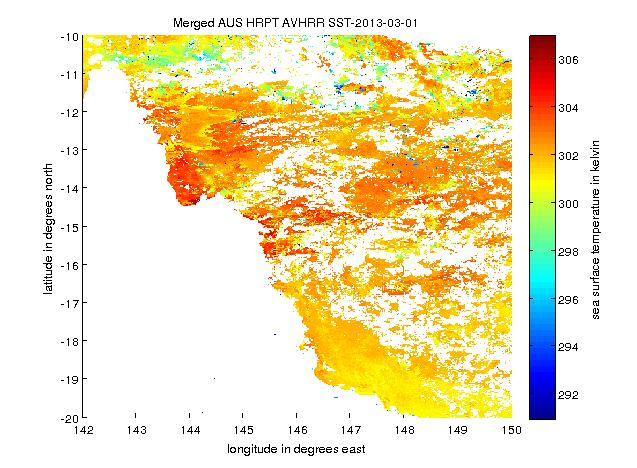
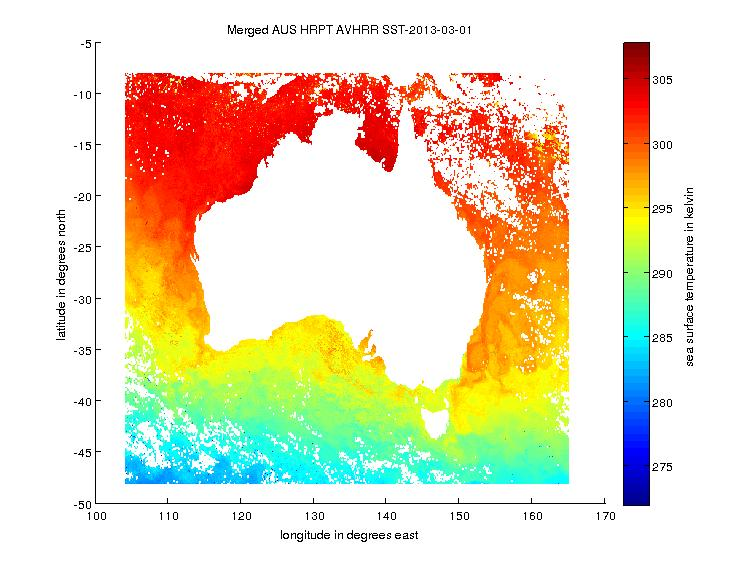
Remove GeoBoundary Box capability to subset gridded dataset . Back to previous version

diff --git a/MATLAB_R2011/commons/NetCDF/ncParse.m b/MATLAB_R2011/commons/NetCDF/ncParse.m
@@ -15,9 +15,6 @@ function dataset = ncParse (inputFileName,varargin)
 %     [parserOption]   'all'       => to retrieve the entire file
 %                      'metadata'  => to retrieve metadata only
 %
-%    'geoBoundaryBox', [minLon maxLon minLat maxLat] only work when a variable lat* or
-%    lon* are dimensions and not variables. regexpi on lat so the latitude
-%    can be either lat Lat LAT LATITUDE ...
 %
 %    'varList' , [varList]   => Parse only a specified set of variables
 %
@@ -78,13 +75,13 @@ if optargin > 0
         elseif strcmpi(varargin{ii_optargin} , 'varList')
             variablesChoosenByUser = varargin{ii_optargin+1};
             
-        elseif strcmpi(varargin{ii_optargin} , 'geoBoundaryBox')
-            geoBoundaryBox = varargin{ii_optargin+1};
-            
-            if (geoBoundaryBox(2) < geoBoundaryBox(1)) ||  (geoBoundaryBox(4) < geoBoundaryBox(3))
-                warning('geoBoundaryBox was badly written [minlon maxlon minlat maxlat]. Subsetting is cancelled ');
-                clear geoBoundaryBox
-            end
+%        elseif strcmpi(varargin{ii_optargin} , 'geoBoundaryBox')
+%            geoBoundaryBox = varargin{ii_optargin+1};
+%            
+%            if (geoBoundaryBox(2) < geoBoundaryBox(1)) ||  (geoBoundaryBox(4) < geoBoundaryBox(3))
+%                warning('geoBoundaryBox was badly written [minlon maxlon minlat maxlat]. Subsetting is cancelled ');
+%                clear geoBoundaryBox
+%            end
             
         else  error('%s is not a valid option',varargin{ii_optargin});
         end
@@ -164,14 +161,8 @@ variablesToExport = variablesChoosenByUser;
 % we can find this information looking at the size of the variable
 % depending of this variable
 %initialise the two next variables as cells does not work
-% dimensionsNames = cell(1,length(variablesList));
-% dimensionsSize = cell(1,length(variablesList));
 dimensionsNames = [];
 dimensionsSize = [];
-% for iiVar=1:length(variablesList)
-%     dimensionsNames = [dimensionsNames nctoolbox_datasetInfo.dimensions(listVariables_NOQC(iiVar))'];
-%     dimensionsSize = [dimensionsSize nctoolbox_datasetInfo.size(listVariables_NOQC(iiVar))];
-% end
 for iiVar=1:length(variablesToExport)
     dimensionsNames = [dimensionsNames nctoolbox_datasetInfo.dimensions(variablesToExport(iiVar))'];
     dimensionsSize = [dimensionsSize nctoolbox_datasetInfo.size(variablesToExport(iiVar))];
@@ -203,34 +194,34 @@ for iiDim=1:length(dimensionsList)
         
         if  sum(strcmp(listVariables,dimensionsList{iiDim})) ~= 0
             
-            if exist('geoBoundaryBox','var') & regexpi(dimensionsList{iiDim},'lat')
-                latFullGrid = nctoolbox_datasetInfo.data(dimensionsList( ~cellfun('isempty',regexpi(dimensionsList,'lat')) ));
-                indexLat = latFullGrid >=  geoBoundaryBox(3) &  latFullGrid <=  geoBoundaryBox(4);
-                latToKeep = latFullGrid(indexLat);
-                if isempty(latToKeep)
-                    warning('No data found in geoBoundaryBox. subset is cancelled : all data is harvested');
-                end
-                data = latToKeep;
-                
-            elseif  exist('geoBoundaryBox','var') & regexpi(dimensionsList{iiDim},'lon')
-                lonFullGrid = nctoolbox_datasetInfo.data(dimensionsList( ~cellfun('isempty',regexpi(dimensionsList,'lon')) ));
-                lonFullGrid_bckp = lonFullGrid;
-                % we need to transform lon values in case they go from -180
-                % to 180. we prefer 0 to 360 for geoBoundaryBox
-                lonFullGrid (lonFullGrid<0) = lonFullGrid (lonFullGrid<0) +360;
-                indexLon = lonFullGrid >=  geoBoundaryBox(1) &  lonFullGrid <=  geoBoundaryBox(2);
-                % but we don't want to change the values , so >
-                lonFullGrid = lonFullGrid_bckp;
-                lonToKeep = lonFullGrid(indexLon);
-                
-                if isempty(lonToKeep)
-                    warning('No data found in geoBoundaryBox. subset is cancelled : all data is harvested');
-                end
-                data = lonToKeep;
-                
-            else
+%            if exist('geoBoundaryBox','var') & regexpi(dimensionsList{iiDim},'lat')
+%                latFullGrid = nctoolbox_datasetInfo.data(dimensionsList( ~cellfun('isempty',regexpi(dimensionsList,'lat')) ));
+%                indexLat = latFullGrid >=  geoBoundaryBox(3) &  latFullGrid <=  geoBoundaryBox(4);
+%                latToKeep = latFullGrid(indexLat);
+%                if isempty(latToKeep)
+%                    warning('No data found in geoBoundaryBox. subset is cancelled : all data is harvested');
+%                end
+%                data = latToKeep;
+%                
+%            elseif  exist('geoBoundaryBox','var') & regexpi(dimensionsList{iiDim},'lon')
+%                lonFullGrid = nctoolbox_datasetInfo.data(dimensionsList( ~cellfun('isempty',regexpi(dimensionsList,'lon')) ));
+%                lonFullGrid_bckp = lonFullGrid;
+%                % we need to transform lon values in case they go from -180
+%                % to 180. we prefer 0 to 360 for geoBoundaryBox
+%                lonFullGrid (lonFullGrid<0) = lonFullGrid (lonFullGrid<0) +360;
+%                indexLon = lonFullGrid >=  geoBoundaryBox(1) &  lonFullGrid <=  geoBoundaryBox(2);
+%                % but we don't want to change the values , so >
+%                lonFullGrid = lonFullGrid_bckp;
+%                lonToKeep = lonFullGrid(indexLon);
+%                
+%                if isempty(lonToKeep)
+%                    warning('No data found in geoBoundaryBox. subset is cancelled : all data is harvested');
+%                end
+%                data = lonToKeep;
+%                
+%            else
                 data =  nctoolbox_datasetInfo.data(dimensionsList(iiDim));
-            end
+%            end
             
             if isnumeric(data) && ~(strcmpi('time',dimensionsList{iiDim}) ...
                     || strcmpi('JULD',dimensionsList{iiDim}) ) % basically, if it's a normal dimension and not a time dimension, then we change the type from double to single
@@ -265,22 +256,21 @@ for iiDim=1:length(dimensionsList)
     clear data
 end
 
-if exist('geoBoundaryBox','var')
-    if exist('lonToKeep','var') || exist('latToKeep','var')
-        if isempty(lonToKeep) ||   isempty(latToKeep)
-            clear  geoBoundaryBox
-            % we do this in case we had a warning above saying lonToKeep or
-            % latToKeep were empty
-            
-        end
-    else
-        clear  geoBoundaryBox
-    end
-end
+%if exist('geoBoundaryBox','var')
+%    if exist('lonToKeep','var') || exist('latToKeep','var')
+%        if isempty(lonToKeep) ||   isempty(latToKeep)
+%            clear  geoBoundaryBox
+%            % we do this in case we had a warning above saying lonToKeep or
+%            % latToKeep were empty
+%            
+%        end
+%    else
+%        clear  geoBoundaryBox
+%    end
+%end
+
 %% get variables , only QC ones
-for iiVar=1:length(variablesToExport)
-    
-    
+for iiVar=1:length(variablesToExport)    
     dimensionAssociated = nctoolbox_datasetInfo.dimensions(variablesToExport(iiVar))';
     
     dataset.variables.(variablesToExport{iiVar}).dimensions = [dimensionAssociated];
@@ -301,38 +291,38 @@ for iiVar=1:length(variablesToExport)
     if ~strcmpi (parserOptionValue,'metadata')
         if sum( strcmpi(variablesChoosenByUser, (variablesToExport{iiVar})) ~= 0)
             
-            if exist('geoBoundaryBox','var') &&  (...
-                    ~isempty(strcmpi('lon',dataset.variables.(variablesToExport{iiVar}).dimensions)) || ...
-                    ~isempty(strcmpi('lat',dataset.variables.(variablesToExport{iiVar}).dimensions)) )
-                lonPositionInDimensionOrder = find (strcmpi('lon',dataset.variables.(variablesToExport{iiVar}).dimensions), 1);
-                latPositionInDimensionOrder = find (strcmpi('lat',dataset.variables.(variablesToExport{iiVar}).dimensions), 1);
-                
-                firstIndex =  ones(size(dataset.variables.(variablesToExport{iiVar}).dimensions)); %initialise
-                firstIndex(lonPositionInDimensionOrder) = find(indexLon, 1,'first');
-                firstIndex(latPositionInDimensionOrder) = find(indexLat, 1,'first');
-                
-                lastIndex =  ones(size(dataset.variables.(variablesToExport{iiVar}).dimensions)); %initialise
-                lastIndex(lonPositionInDimensionOrder) = find(indexLon, 1,'last');
-                lastIndex(latPositionInDimensionOrder) = find(indexLat, 1,'last');
-                
-                % we need to find the size of the other dimensions to populate lastIndex
-                % properly for the non Lat and Lon dimensions.
-                
-                %first we look for all the non lat and lon dimensions the variable depends
-                %of
-                otherDims = setdiff((1:length(dataset.variables.(variablesToExport{iiVar}).dimensions)),[lonPositionInDimensionOrder,latPositionInDimensionOrder]);
-                
-                % and we look for the size of each dimension to populate lastIndex
-                for iiotherDims = 1:length(otherDims)
-                    lastIndex(iiotherDims) = length(dataset.dimensions.(dataset.variables.(variablesToExport{iiVar}).dimensions{iiotherDims}).data);
-                end
-                
-                % finally we harvest only the indexes we need
-                data =  nctoolbox_datasetInfo.data(variablesToExport(iiVar),firstIndex,lastIndex);
-                
-            else
+%            if exist('geoBoundaryBox','var') &&  (...
+%                    ~isempty(strcmpi('lon',dataset.variables.(variablesToExport{iiVar}).dimensions)) || ...
+%                    ~isempty(strcmpi('lat',dataset.variables.(variablesToExport{iiVar}).dimensions)) )
+%                lonPositionInDimensionOrder = find (strcmpi('lon',dataset.variables.(variablesToExport{iiVar}).dimensions), 1);
+%                latPositionInDimensionOrder = find (strcmpi('lat',dataset.variables.(variablesToExport{iiVar}).dimensions), 1);
+%                
+%                firstIndex =  ones(size(dataset.variables.(variablesToExport{iiVar}).dimensions)); %initialise
+%                firstIndex(lonPositionInDimensionOrder) = find(indexLon, 1,'first');
+%                firstIndex(latPositionInDimensionOrder) = find(indexLat, 1,'first');
+%                
+%                lastIndex =  ones(size(dataset.variables.(variablesToExport{iiVar}).dimensions)); %initialise
+%                lastIndex(lonPositionInDimensionOrder) = find(indexLon, 1,'last');
+%                lastIndex(latPositionInDimensionOrder) = find(indexLat, 1,'last');
+%                
+%                % we need to find the size of the other dimensions to populate lastIndex
+%                % properly for the non Lat and Lon dimensions.
+%                
+%                %first we look for all the non lat and lon dimensions the variable depends
+%                %of
+%                otherDims = setdiff((1:length(dataset.variables.(variablesToExport{iiVar}).dimensions)),[lonPositionInDimensionOrder,latPositionInDimensionOrder]);
+%                
+%                % and we look for the size of each dimension to populate lastIndex
+%                for iiotherDims = 1:length(otherDims)
+%                    lastIndex(iiotherDims) = length(dataset.dimensions.(dataset.variables.(variablesToExport{iiVar}).dimensions{iiotherDims}).data);
+%                end
+%                
+%                % finally we harvest only the indexes we need
+%                data =  nctoolbox_datasetInfo.data(variablesToExport(iiVar),firstIndex,lastIndex);
+%                
+%            else
                 data =  (nctoolbox_datasetInfo.data(variablesToExport(iiVar)));
-            end
+%            end
             if isnumeric(data) && ~(strcmpi('time',variablesToExport{iiVar}) ...
                     || strcmpi('JULD',variablesToExport{iiVar}) ) % basically, if it's a normal dimension and not a time dimension, then we change the type from double to single
                 data = single(data);
@@ -346,27 +336,7 @@ for iiVar=1:length(variablesToExport)
             clear data
         end
     end
-    %     dimensionAssociated = nctoolbox_datasetInfo.dimensions(listVariables_NOQC(iiVar))';
-    %     dataset.variables.(variablesList{iiVar}).dimensions = [dimensionAssociated];
-    %     varAttributes = nctoolbox_datasetInfo.attributes(variablesList(iiVar));
-    %
-    %     for iiVarAttributes=1:size(varAttributes,1)
-    %         attName=(varAttributes{iiVarAttributes,1});
-    %         if  strfind(attName(1),'_') %remove the underscore at the beginning of an attribute
-    %             attName=attName(2:end);
-    %         end
-    %         dataset.variables.(variablesList{iiVar}).(attName) = varAttributes{iiVarAttributes,2};
-    %     end
-    %
-    %     if ~strcmpi (parserOptionValue,'metadata')
-    %         if sum( strcmpi(variablesChoosenByUser, (variablesList{iiVar})) ~= 0)
-    %
-    %             data =  nctoolbox_datasetInfo.data(variablesList(iiVar));
-    %
-    %             dataset.variables.(variablesList{iiVar}).data = data;
-    %             clear data
-    %         end
-    %     end
+
 end
 
 
@@ -502,7 +472,7 @@ end
 
 %warning, don't change the following order. It is important to clean first,
 %then to modify the values such as time. Otherwise there might be some
-%conflits with the valid min and max values ...
+%conflicts with the valid min and max values ...
 
 %% clean variable and dimensions values - fillvalue offset ...
 if ~strcmpi (parserOptionValue,'metadata')

diff --git a/MATLAB_R2011/demos/srs_l3s.m b/MATLAB_R2011/demos/srs_l3s.m
@@ -9,9 +9,9 @@
 % The script is distributed under the terms of the GNU General Public License
 
 srs_URL = 'http://thredds.aodn.org.au/thredds/dodsC/IMOS/eMII/demos/SRS/SRS-SST/L3S-01day/L3S_1d_night/2013/20130401152000-ABOM-L3S_GHRSST-SSTskin-AVHRR_D-1d_night-v02.0-fv01.0.nc.gz';
-srsL3S_DATA = ncParse(srs_URL,'geoBoundaryBox', [165 181 -50 -30]) ; % New Zealand subset across the 180th meridian
+srsL3S_DATA = ncParse(srs_URL) ;
  
-step = 1; % we take one point out of 'step'. Only to make it faster to plot on Matlab
+step = 10; % we take one point out of 'step'. Only to make it faster to plot on Matlab
 % squeeze the data to get rid of the time dimension in the variable shape 
 sst = squeeze(srsL3S_DATA.variables.sea_surface_temperature.data(1,1:step:end,1:step:end));
 lat = squeeze(srsL3S_DATA.dimensions.lat.data(1:step:end));

diff --git a/MATLAB_R2011/demos/srs_l3c.m b/MATLAB_R2011/demos/srs_l3c.m
@@ -9,9 +9,9 @@
 % The script is distributed under the terms of the GNU General Public License
 
 srs_URL = 'http://thredds.aodn.org.au/thredds/dodsC/IMOS/eMII/demos/SRS/SRS-SST/L3C-01day/L3C_GHRSST-SSTskin-AVHRR19_D-1d_night/2013/20130401152000-ABOM-L3C_GHRSST-SSTskin-AVHRR19_D-1d_night-v02.0-fv01.0.nc.gz' ;
-srsL3C_DATA = ncParse(srs_URL,'geoBoundaryBox', [110 120 -40 -10]) ; % WA
+srsL3C_DATA = ncParse(srs_URL) ;
  
-step = 1; % we take one point out of 'step'. Only to make it faster to plot on Matlab
+step = 10; % we take one point out of 'step'. Only to make it faster to plot on Matlab
 % squeeze the data to get rid of the time dimension in the variable shape 
 sst = squeeze(srsL3C_DATA.variables.sea_surface_temperature.data(1,1:step:end,1:step:end));
 lat = squeeze(srsL3C_DATA.dimensions.lat.data(1:step:end));

diff --git a/MATLAB_R2011/demos/srs_l3p.m b/MATLAB_R2011/demos/srs_l3p.m
@@ -9,9 +9,9 @@
 % The script is distributed under the terms of the GNU General Public License
 
 srs_URL = 'http://thredds.aodn.org.au/thredds/dodsC/IMOS/eMII/demos/SRS/SRS-SST/L3P/2013/20130315-ABOM-L3P_GHRSST-SSTsubskin-AVHRR_MOSAIC_01km-AO_DAAC-v01-fv01_0.nc' ;
-srsL3P_DATA = ncParse(srs_URL,'geoBoundaryBox', [142 150 -20 -10]) ; % GBR
+srsL3P_DATA = ncParse(srs_URL) ; 
  
-step = 1; % we take one point out of 'step'. Only to make it faster to plot on Matlab
+step = 10; % we take one point out of 'step'. Only to make it faster to plot on Matlab
 % squeeze the data to get rid of the time dimension in the variable shape 
 sst = squeeze(srsL3P_DATA.variables.sea_surface_temperature.data(1,1:step:end,1:step:end));
 lat = squeeze(srsL3P_DATA.dimensions.lat.data(1:step:end));
